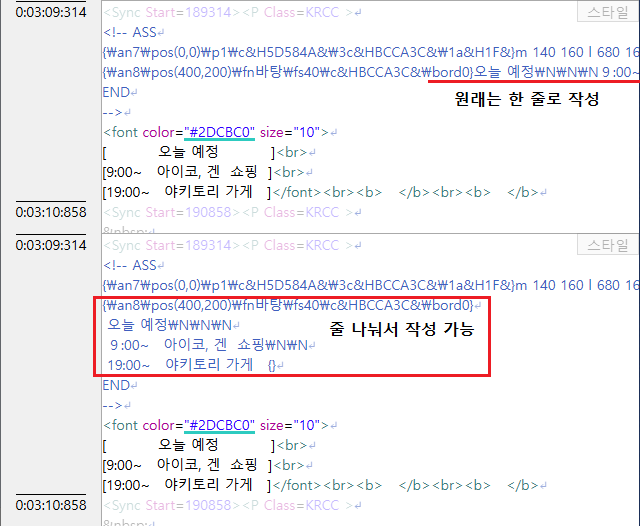
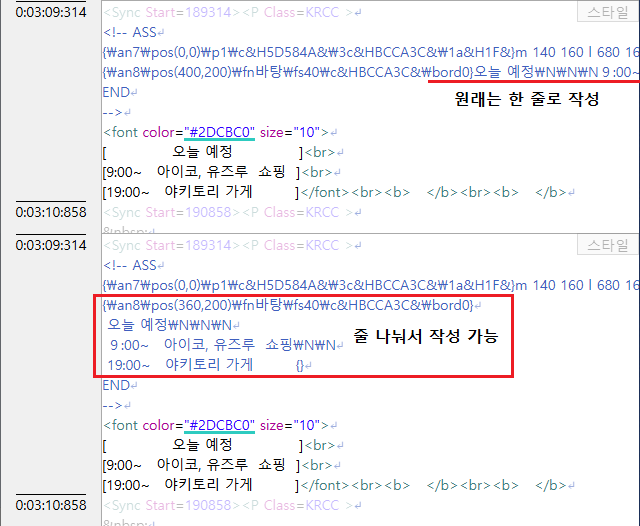
신기능 도움말 작성

diff --git a/Jamaker/view/help/aboutAss.html b/Jamaker/view/help/aboutAss.html
@@ -109,6 +109,12 @@ hr {
 		공백문자로 시작하는 줄은 윗줄과 하나로 합쳐서 처리합니다.
 		<img src="img/ass11.png" title="줄 연결 기능 활용 이미지" /><br />
 		<br />
+		그 밖에 자체 문법으로 \fadein, \fadeout, \dpos, \dmove 태그가 있습니다.<br />
+		\fadein, \fadeout은 해당 싱크의 길이에 맞춰 \fad(길이,0), \fad(0,길이)로 변환해 출력합니다.<br />
+		\dpos, \dmove 태그는 자막을 \org, \frx, \fry, frz 태그로 왜곡시켜 좌표를 맞추기 어려운 경우<br />
+		해당 태그에 디스플레이할 좌표를 넣으면, \pos, \move 좌표를 역산해 출력합니다.<br />
+		<img src="img/ass12.png" title="dpos 태그 활용 이미지" /><br />
+		<br />
 		<br />
 		SMI 에디터 내에서 표현하기 어려운 스크립트를 위해 추가적인 ASS 에디터도 존재합니다.<br />
 		<img src="img/ass8.png" title="ASS 에디터 이미지" /><br />

diff --git a/Jamaker/view/lib/setting.js b/Jamaker/view/lib/setting.js
@@ -40,7 +40,7 @@
 }
 
 window.DEFAULT_SETTING =
-{	version: "2026.05.05"
+{	version: "2026.05.16"
 ,	menu:
 	[	[	"파일(&F)"
 		,	"새 파일(&N)|newFile()"